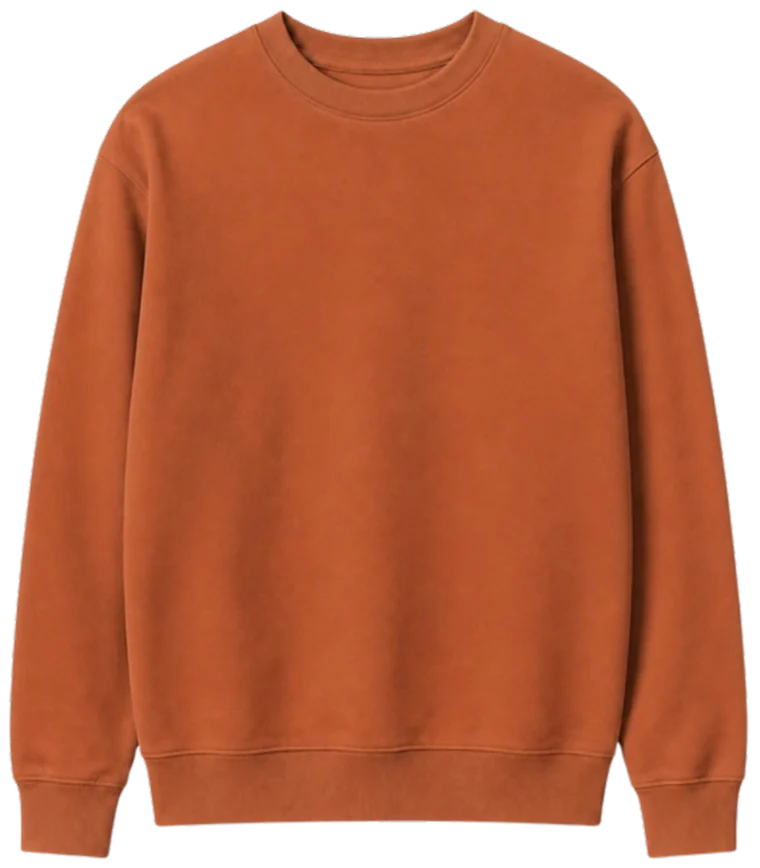
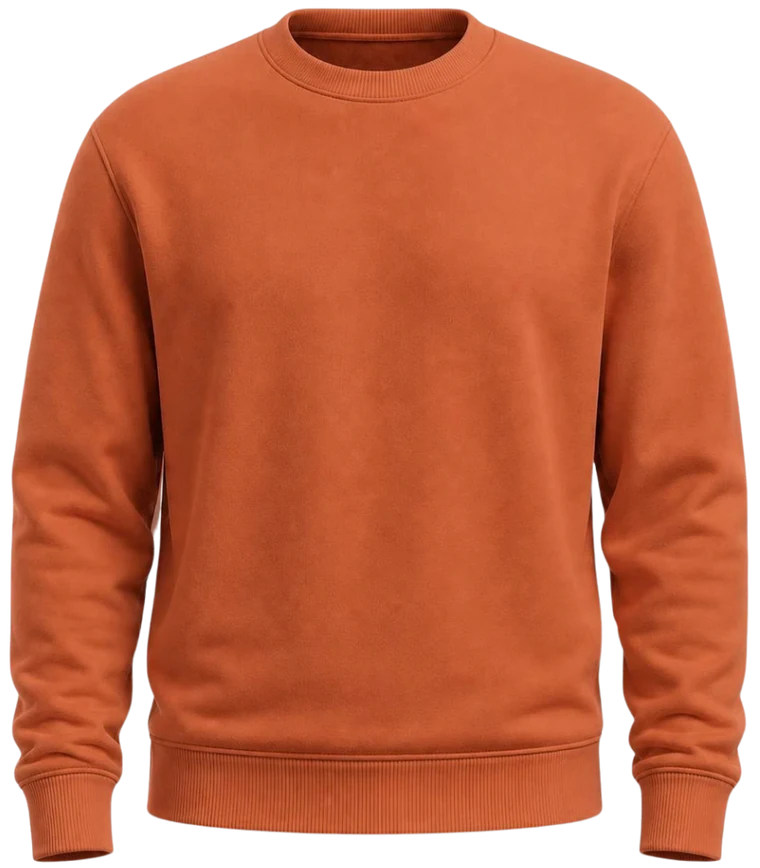
Hoodies: ghost-mannequin garment photos in five colours
New puffy, worn-look hoodie and crewneck photos from Canva (white master,
four recolours of the same photo), cut out and cropped to one shared box per
type; print areas re-measured for the new shapes.

Claude-Session: https://claude.ai/code/session_0122Z8KkgvZFcjmbyKTUCQE8

diff --git a/.claude/skills/canva-product-photos/SKILL.md b/.claude/skills/canva-product-photos/SKILL.md
@@ -32,7 +32,20 @@ Write prompts as a photographer's brief. Always state: subject, colour
 (name + hex), what is blank, framing, light, backdrop, and what must *not*
 appear.
 
-**Garment for the line** (front, no hanger — it is clipped on the site):
+**Garment for the line — current style: ghost mannequin** (the owner wants
+the puffy, "worn by an invisible person" 3D look; flat laid-out garments were
+replaced). White masters in use: hoodie `MAHWgzxBKKk`, crewneck `MAHWg9H8peU`.
+> Professional e-commerce ghost mannequin (invisible mannequin) product photo
+> of a plain white (#F4F1EA) heavyweight cotton {pullover hoodie with hood and
+> drawstrings and kangaroo pocket | crewneck sweatshirt with ribbed round
+> collar, cuffs and hem}, 3D volume as if worn by an invisible person, full
+> rounded shoulders and chest, sleeves hanging naturally down the sides with
+> soft folds, perfectly front view and symmetrical, completely blank chest, no
+> print, no logo, no label, whole garment in frame with even margin, floating,
+> soft diffused studio light, plain light warm grey seamless backdrop, no
+> person, no mannequin visible, no hanger
+
+Older flat style (kept for reference):
 > Professional e-commerce product photo of a plain {colour} ({hex}) heavyweight
 > cotton {hoodie with hood and kangaroo pocket | crewneck sweatshirt with ribbed
 > collar and cuffs}, no print, no logo, no label, blank chest, laid perfectly
@@ -88,6 +101,15 @@ whole set out as a grid on one big page and slice it locally:
 6. Slice with PIL (see the history of `assets/products/hoodies/`): for a
    garment type, crop every colour to the **same** box (the union of their
    alpha bounds) so the print lands in the same place on every colour.
+
+If one `remove-background` is unavailable for a **dark** garment on the light
+grey backdrop, a luminance key is clean enough (alpha from `bg - lum`, shrink
+the edge 1px, then pull semi-transparent edge pixels down to the cloth's
+luminance so no light halo shows between sleeve and body). Check it on a dark
+background too — halos show there first. Never do this for light garments.
+
+After new garment photos, re-measure `products.<type>.print` in
+`content/hoodies.json` (draw the box on the white piece and look).
 
 ## Rate limits and timing
 
